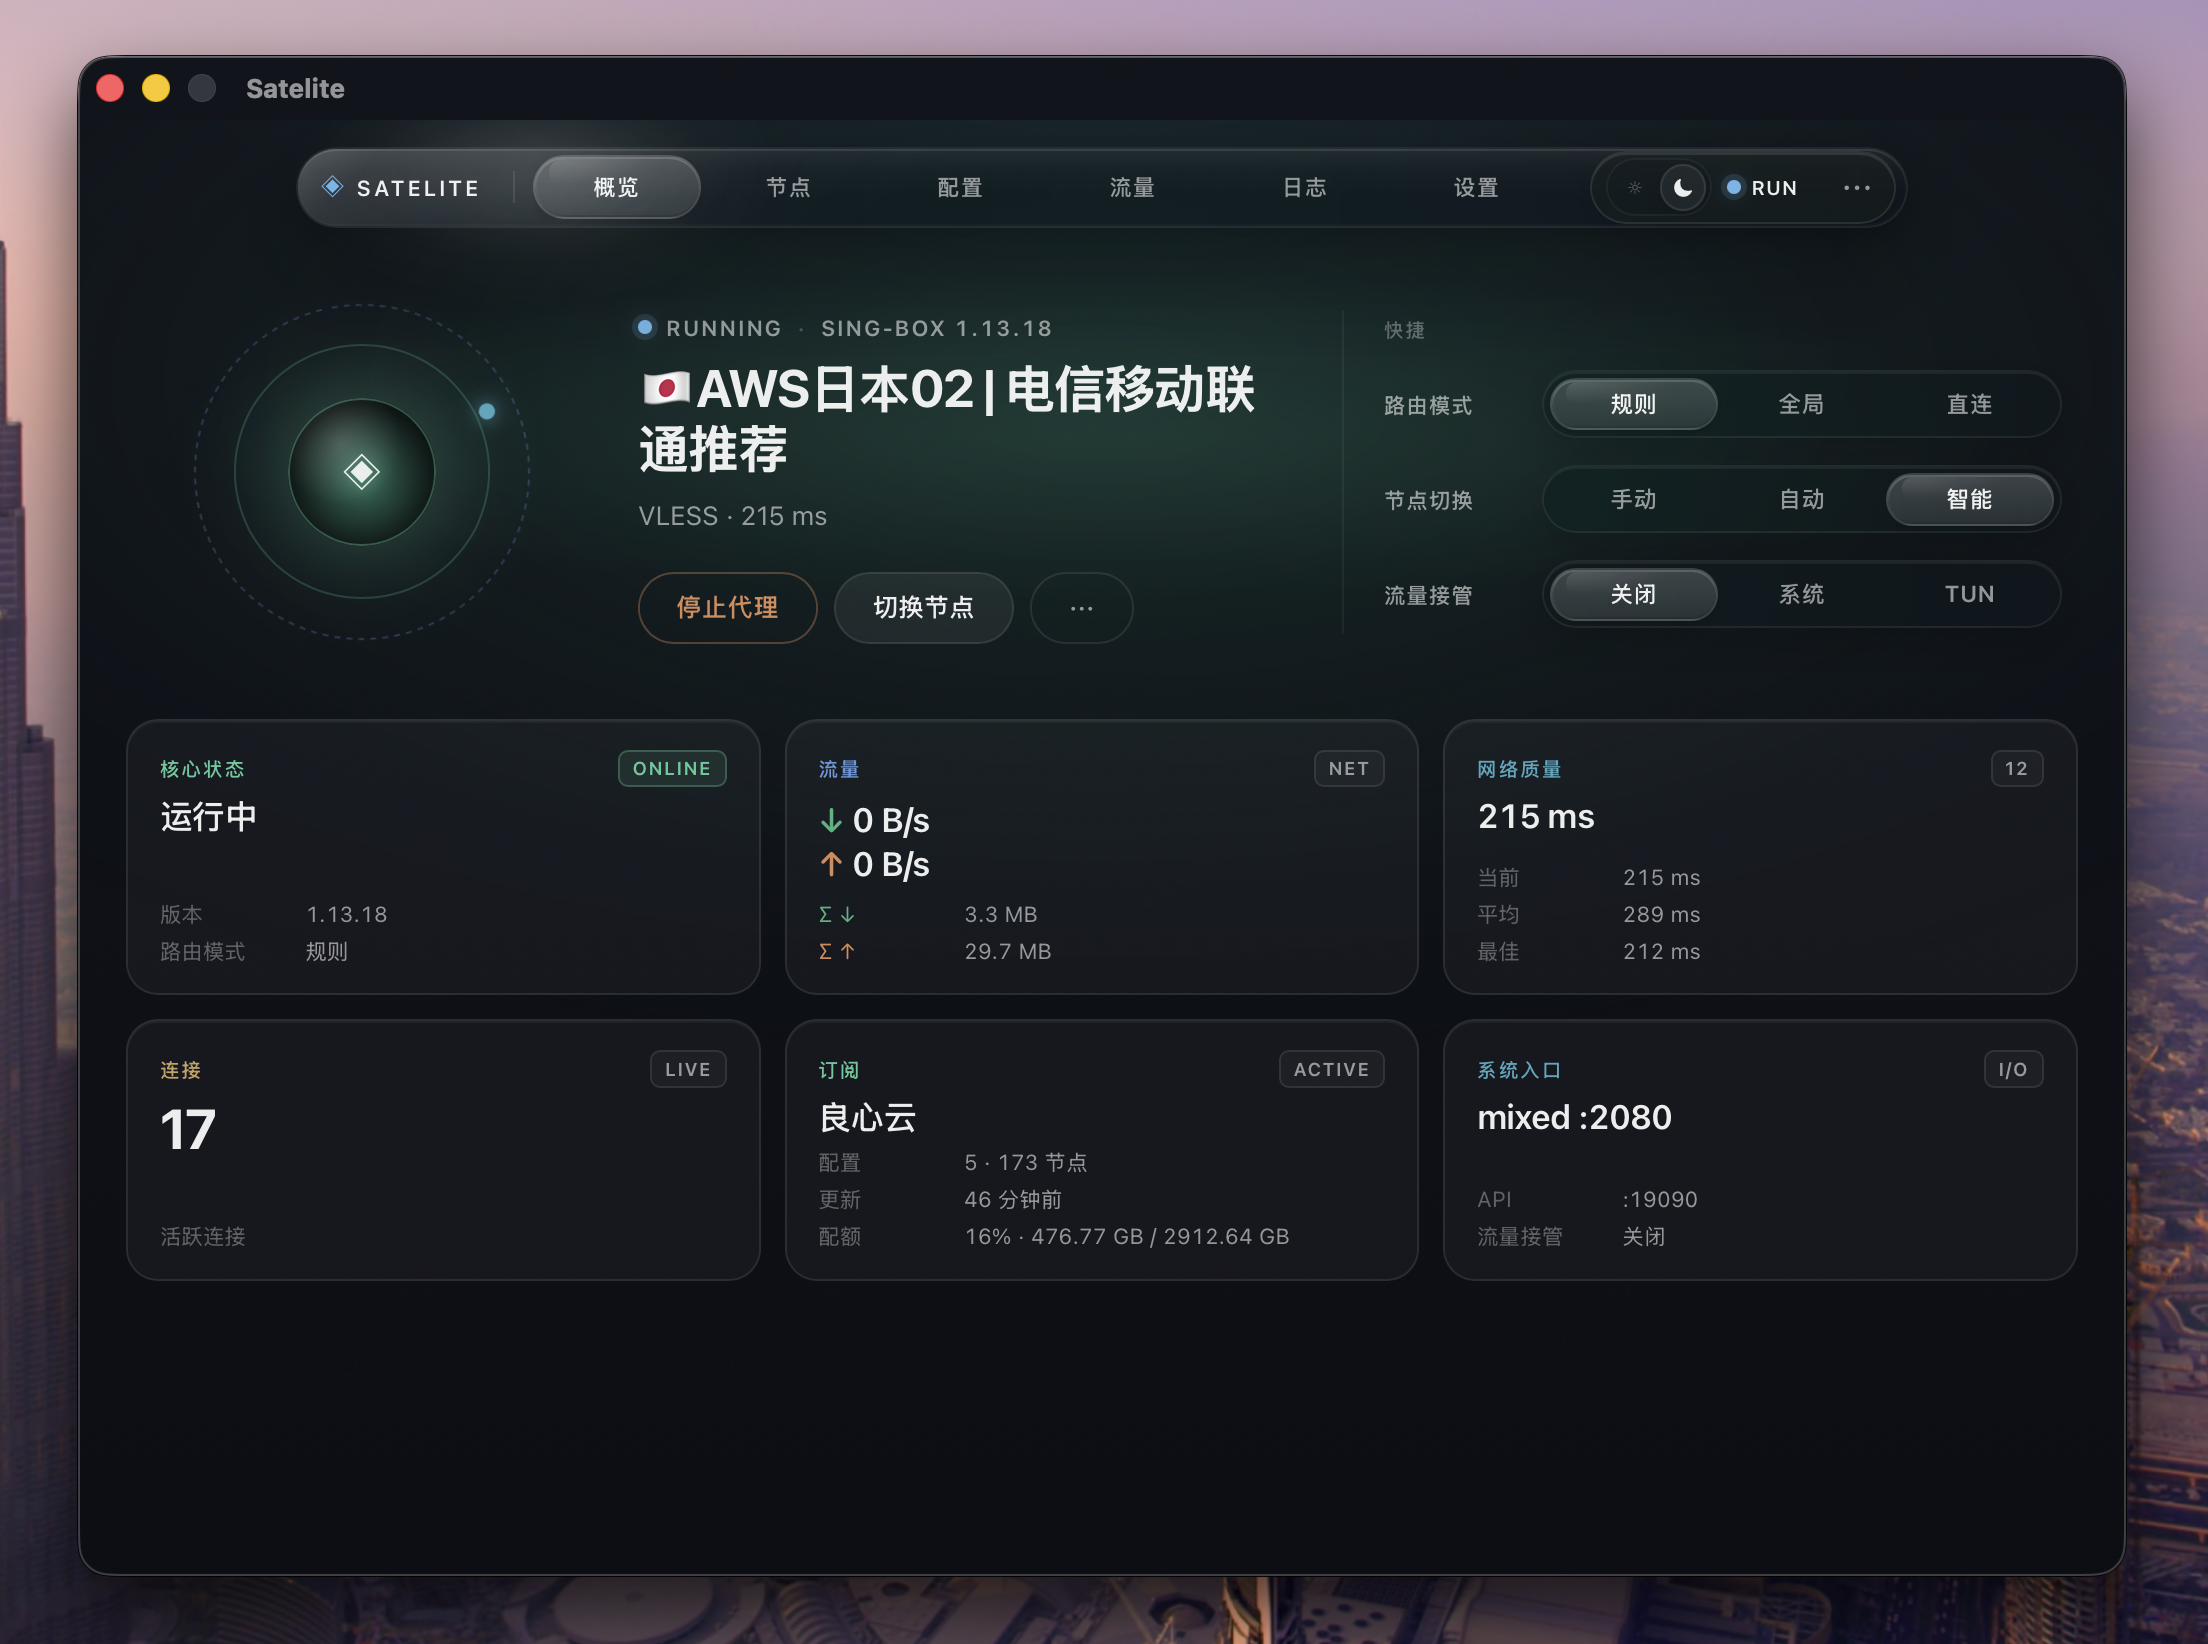
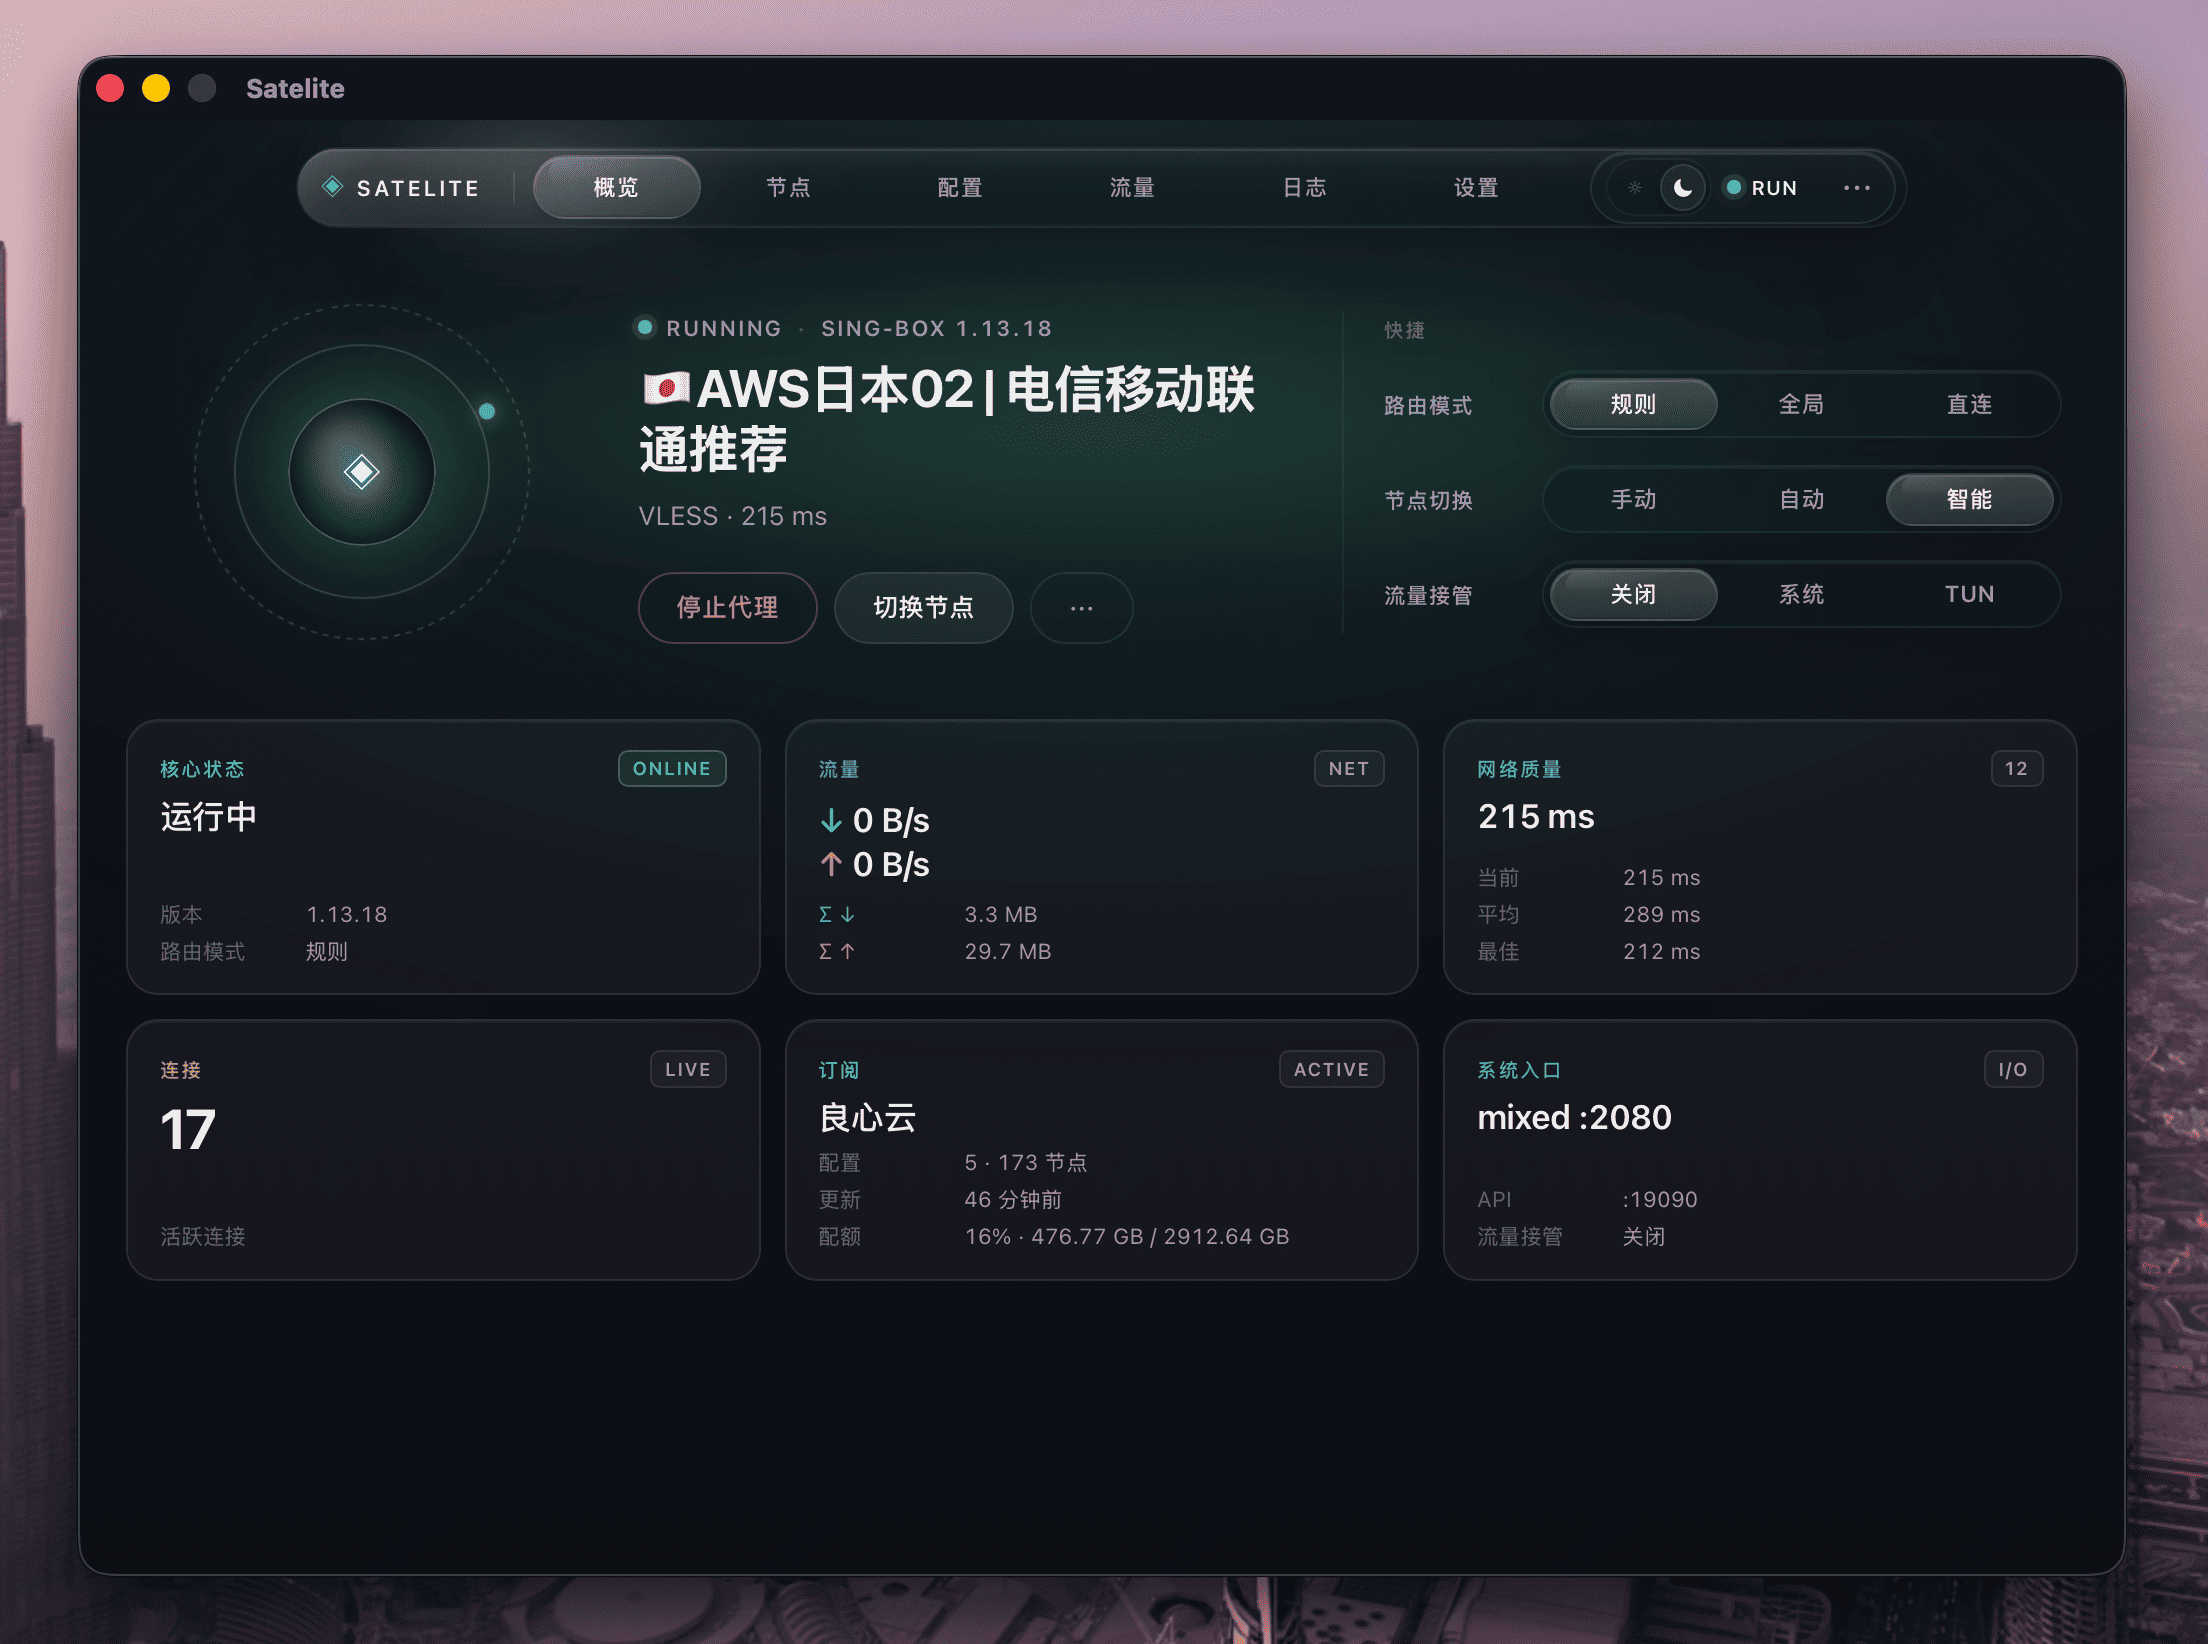
update

diff --git a/README.md b/README.md
@@ -1,29 +1,66 @@
-# Satelite Proxy
-
-一个轻量、好看的 **sing-box** 桌面代理客户端，基于 **Tauri 2 + React + Rust** 构建，支持 **macOS** 与 **Windows**。
-
-导入机场订阅、切换节点、规则分流、智能 DNS、系统代理 / TUN，再到托盘常驻，日常使用所需的功能它都有。
+# Satelite
 
 <p align="center">
-  <img src="assets/index.png" alt="Satelite" width="720" />
+  <strong>卫星在轨，网络才稳。</strong><br/>
+  轻量、好看的 <a href="https://github.com/SagerNet/sing-box">sing-box</a> 桌面客户端<br/>
+</p>
+
+<p align="center">
+  <a href="https://github.com/zn0wii/satelite-proxy/stargazers"><img src="https://img.shields.io/github/stars/zn0wii/satelite-proxy?style=social" alt="Stars" /></a>
+  &nbsp;
+  <img src="https://img.shields.io/badge/macOS-Apple%20Silicon%20%7C%20Intel-111111?logo=apple&logoColor=white" alt="macOS" />
+  <img src="https://img.shields.io/badge/Windows-x64-0078D4?logo=windows&logoColor=white" alt="Windows" />
+  <img src="https://img.shields.io/badge/Tauri-2-24C8DB?logo=tauri&logoColor=white" alt="Tauri" />
+  <img src="https://img.shields.io/badge/Rust-%23000000?logo=rust&logoColor=white" alt="Rust" />
+  <img src="https://img.shields.io/badge/License-Apache%202.0-green.svg" alt="License" />
+</p>
+
+导入订阅、切节点、规则分流、智能 DNS、系统代理 / TUN、托盘常驻——日常该有的都有。  
+它**足够轻、足够稳、也足够好看**。
+
+<p align="center">
+  <img src="assets/index.png" alt="Satelite 概览" width="760" />
 </p>
 
 ---
 
-## ✨ 主要功能
+## 为什么是 Satelite
 
-- **订阅导入**：支持 Clash 兼容订阅，链接导入、文件导入、以及浏览器一键导入（`clash://` / `sing-box://` 深链）
-- **节点切换**：支持 SS、VMess、VLESS、Trojan、Hysteria2、TUIC、SOCKS5、AnyTLS、Snell 等 9 种协议，一键测速、快速切换
-- **智能选节点**：可选「手动」「应用智能切换（自动避障）」「内核自动测速（urltest）」三种模式
-- **规则分流**：基于规则集（Rule Set）的分流，支持远程规则集自动缓存；可按规则 / 全局 / 直连三种模式切换
-- **智能 DNS**：支持 DoH、DoT、FakeIP，自定义 DNS 规则与 Hosts，还可测试 DNS 解析
-- **系统代理 / TUN**：系统代理一键开启，TUN 模式实现全局透明代理（支持 system / gvisor / mixed 栈）
-- **连接与流量监控**：实时查看活跃连接、已关闭连接、失败请求、流量走向，自动解析进程名
-- **日志查看**：运行日志与内核日志一目了然
-- **托盘常驻**：关闭窗口即最小化到托盘，后台保持连接；支持开机启动、静默启动
-- **两种界面风格**：「专业模式」功能齐全，「简洁模式」只留最常用的几项，按需切换
-- **内核自动管理**：自动下载并更新 sing-box 内核，无需手动配置
-- **多语言与主题**：中文 / 英文，浅色 / 深色主题，多种主题色
+代理客户端已经够多了。Satelite 不想再做一个「功能清单更长」的壳，而是把 **sing-box** 收成一颗真正能放在桌面上的卫星：
+
+| 你真正在意的 | Satelite 怎么做 |
+| --- | --- |
+| **体积与内存** | Tauri 2 + Rust，不是 Chromium 全家桶。开着托盘就该被忘掉，而不是占掉半条内存。 |
+| **节点会挂** | 三种选路：手动、内核 urltest、应用侧智能切换。智能模式靠连接日志被动感知 + 按需探测，自动避障，而不是一直狂扫全表。 |
+| **不想被配置淹没** | 「简洁模式」只留连接 / 节点 / 流量；「专业模式」打开规则、DNS、Hosts、日志。同一套内核，两套节奏。 |
+| **界面也是功能** | 玻璃拟态、浅色 / 深色、多种主题色。打开窗口的那一秒，就该知道这不是 2018 年的后台面板。 |
+| **开箱即用** | 内核自动下载更新；Clash 订阅、文件导入、`clash://` / `sing-box://` 浏览器一键导入。 |
+
+> 卫星绕着你转，而不是你围着 YAML 转。
+
+---
+
+## 它能做什么
+
+- **订阅导入**：Clash 兼容订阅，链接 / 文件 / 浏览器深链一键导入
+- **协议齐全**：SS、VMess、VLESS、Trojan、Hysteria2、TUIC、SOCKS5、AnyTLS、Snell，一键测速，秒切节点
+- **智能选路**：手动 · 应用智能避障 · 内核 urltest，按场景选，不绑死一种策略
+- **规则分流**：Rule Set 分流，远程规则集自动缓存；规则 / 全局 / 直连一键切换
+- **智能 DNS**：DoH / DoT / FakeIP，自定义 DNS 规则与 Hosts，还能测解析
+- **系统代理 / TUN**：系统代理一键接管；TUN 全局透明代理，支持 system / gvisor / mixed
+- **连接与流量**：活跃连接、已关闭、失败请求、流量走向，自动解析进程名
+- **托盘常驻**：关窗即托盘，开机启动、静默启动；内核在后台，窗口可消失
+- **内核自管**：自动拉取并更新 sing-box，不用自己找二进制、对版本
+- **中英双语文案**，浅色 / 深色，多种主题色
+
+<p align="center">
+  <img src="assets/1.png" alt="Windows 概览" width="380" />
+  &nbsp;
+  <img src="assets/3.png" alt="规则分流" width="380" />
+</p>
+<p align="center">
+  <img src="assets/2.png" alt="应用设置" width="760" />
+</p>
 
 ## 🖥 平台支持
 
@@ -82,6 +119,10 @@ pnpm tauri build
 ```powershell
 pwsh scripts/build-windows.ps1
 ```
+
+---
+
+用着顺手的话，点一颗 [Star](https://github.com/zn0wii/satelite-proxy)，卫星会飞得更稳一点。
 
 ## 友情链接
 
